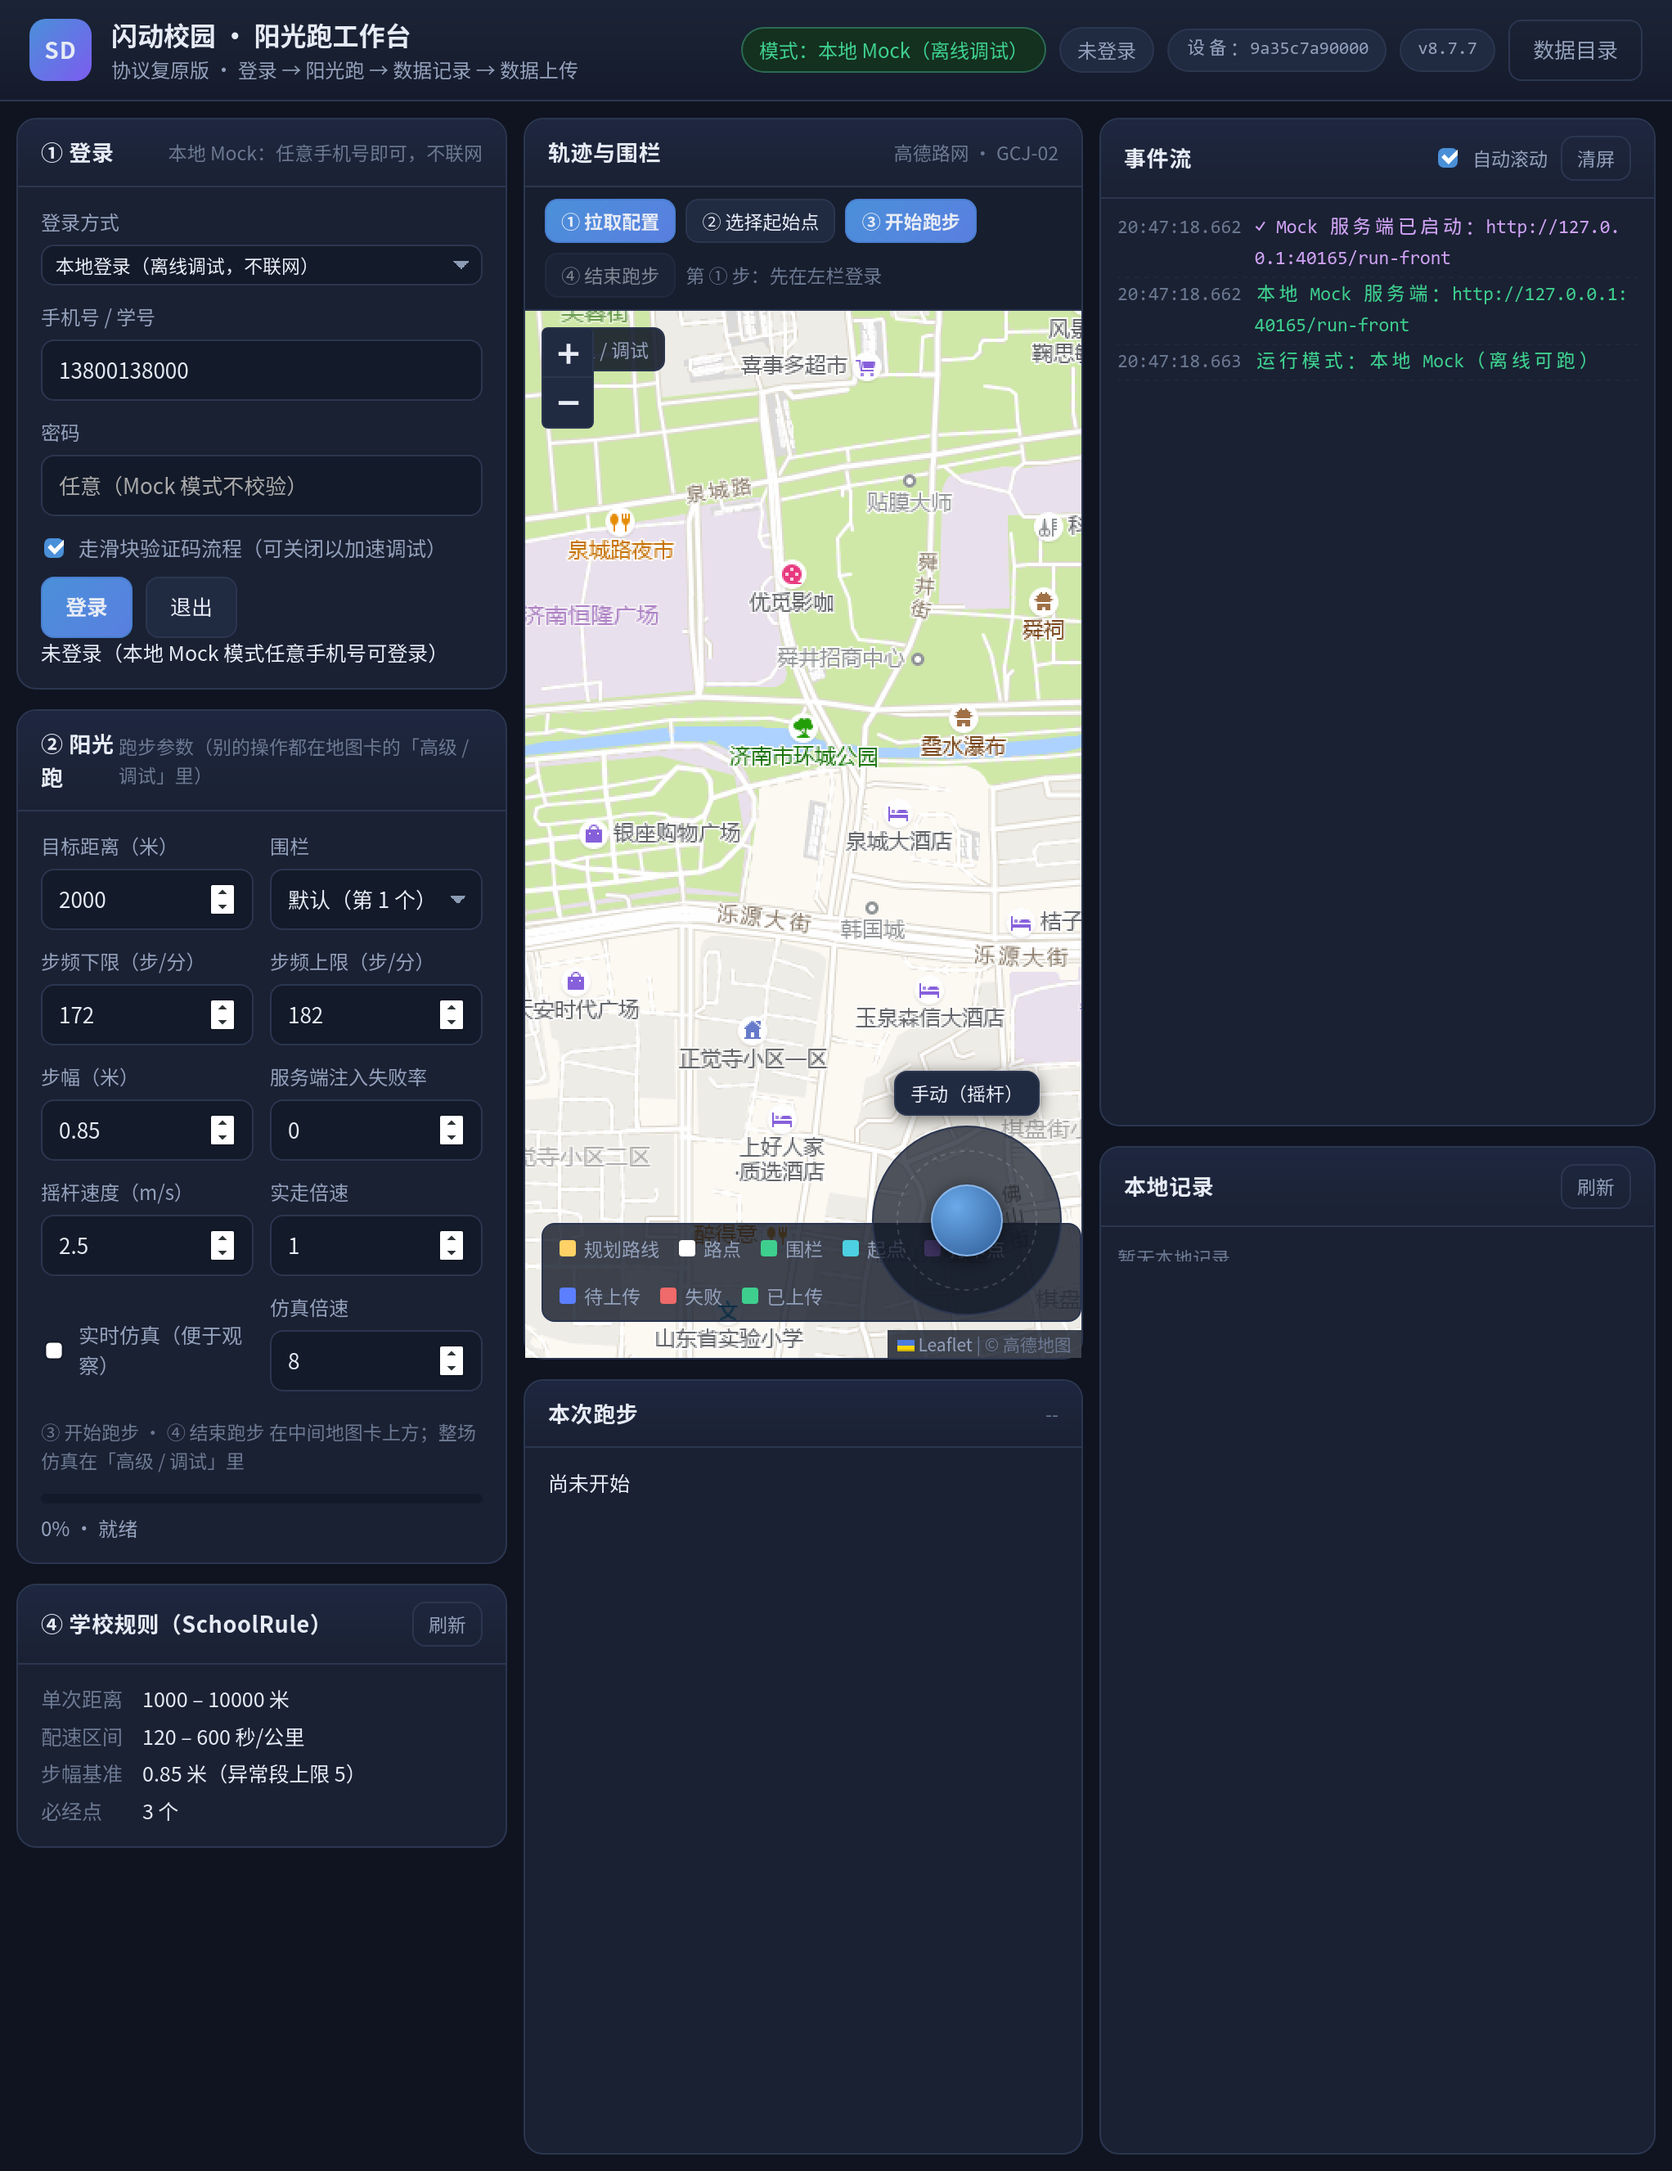
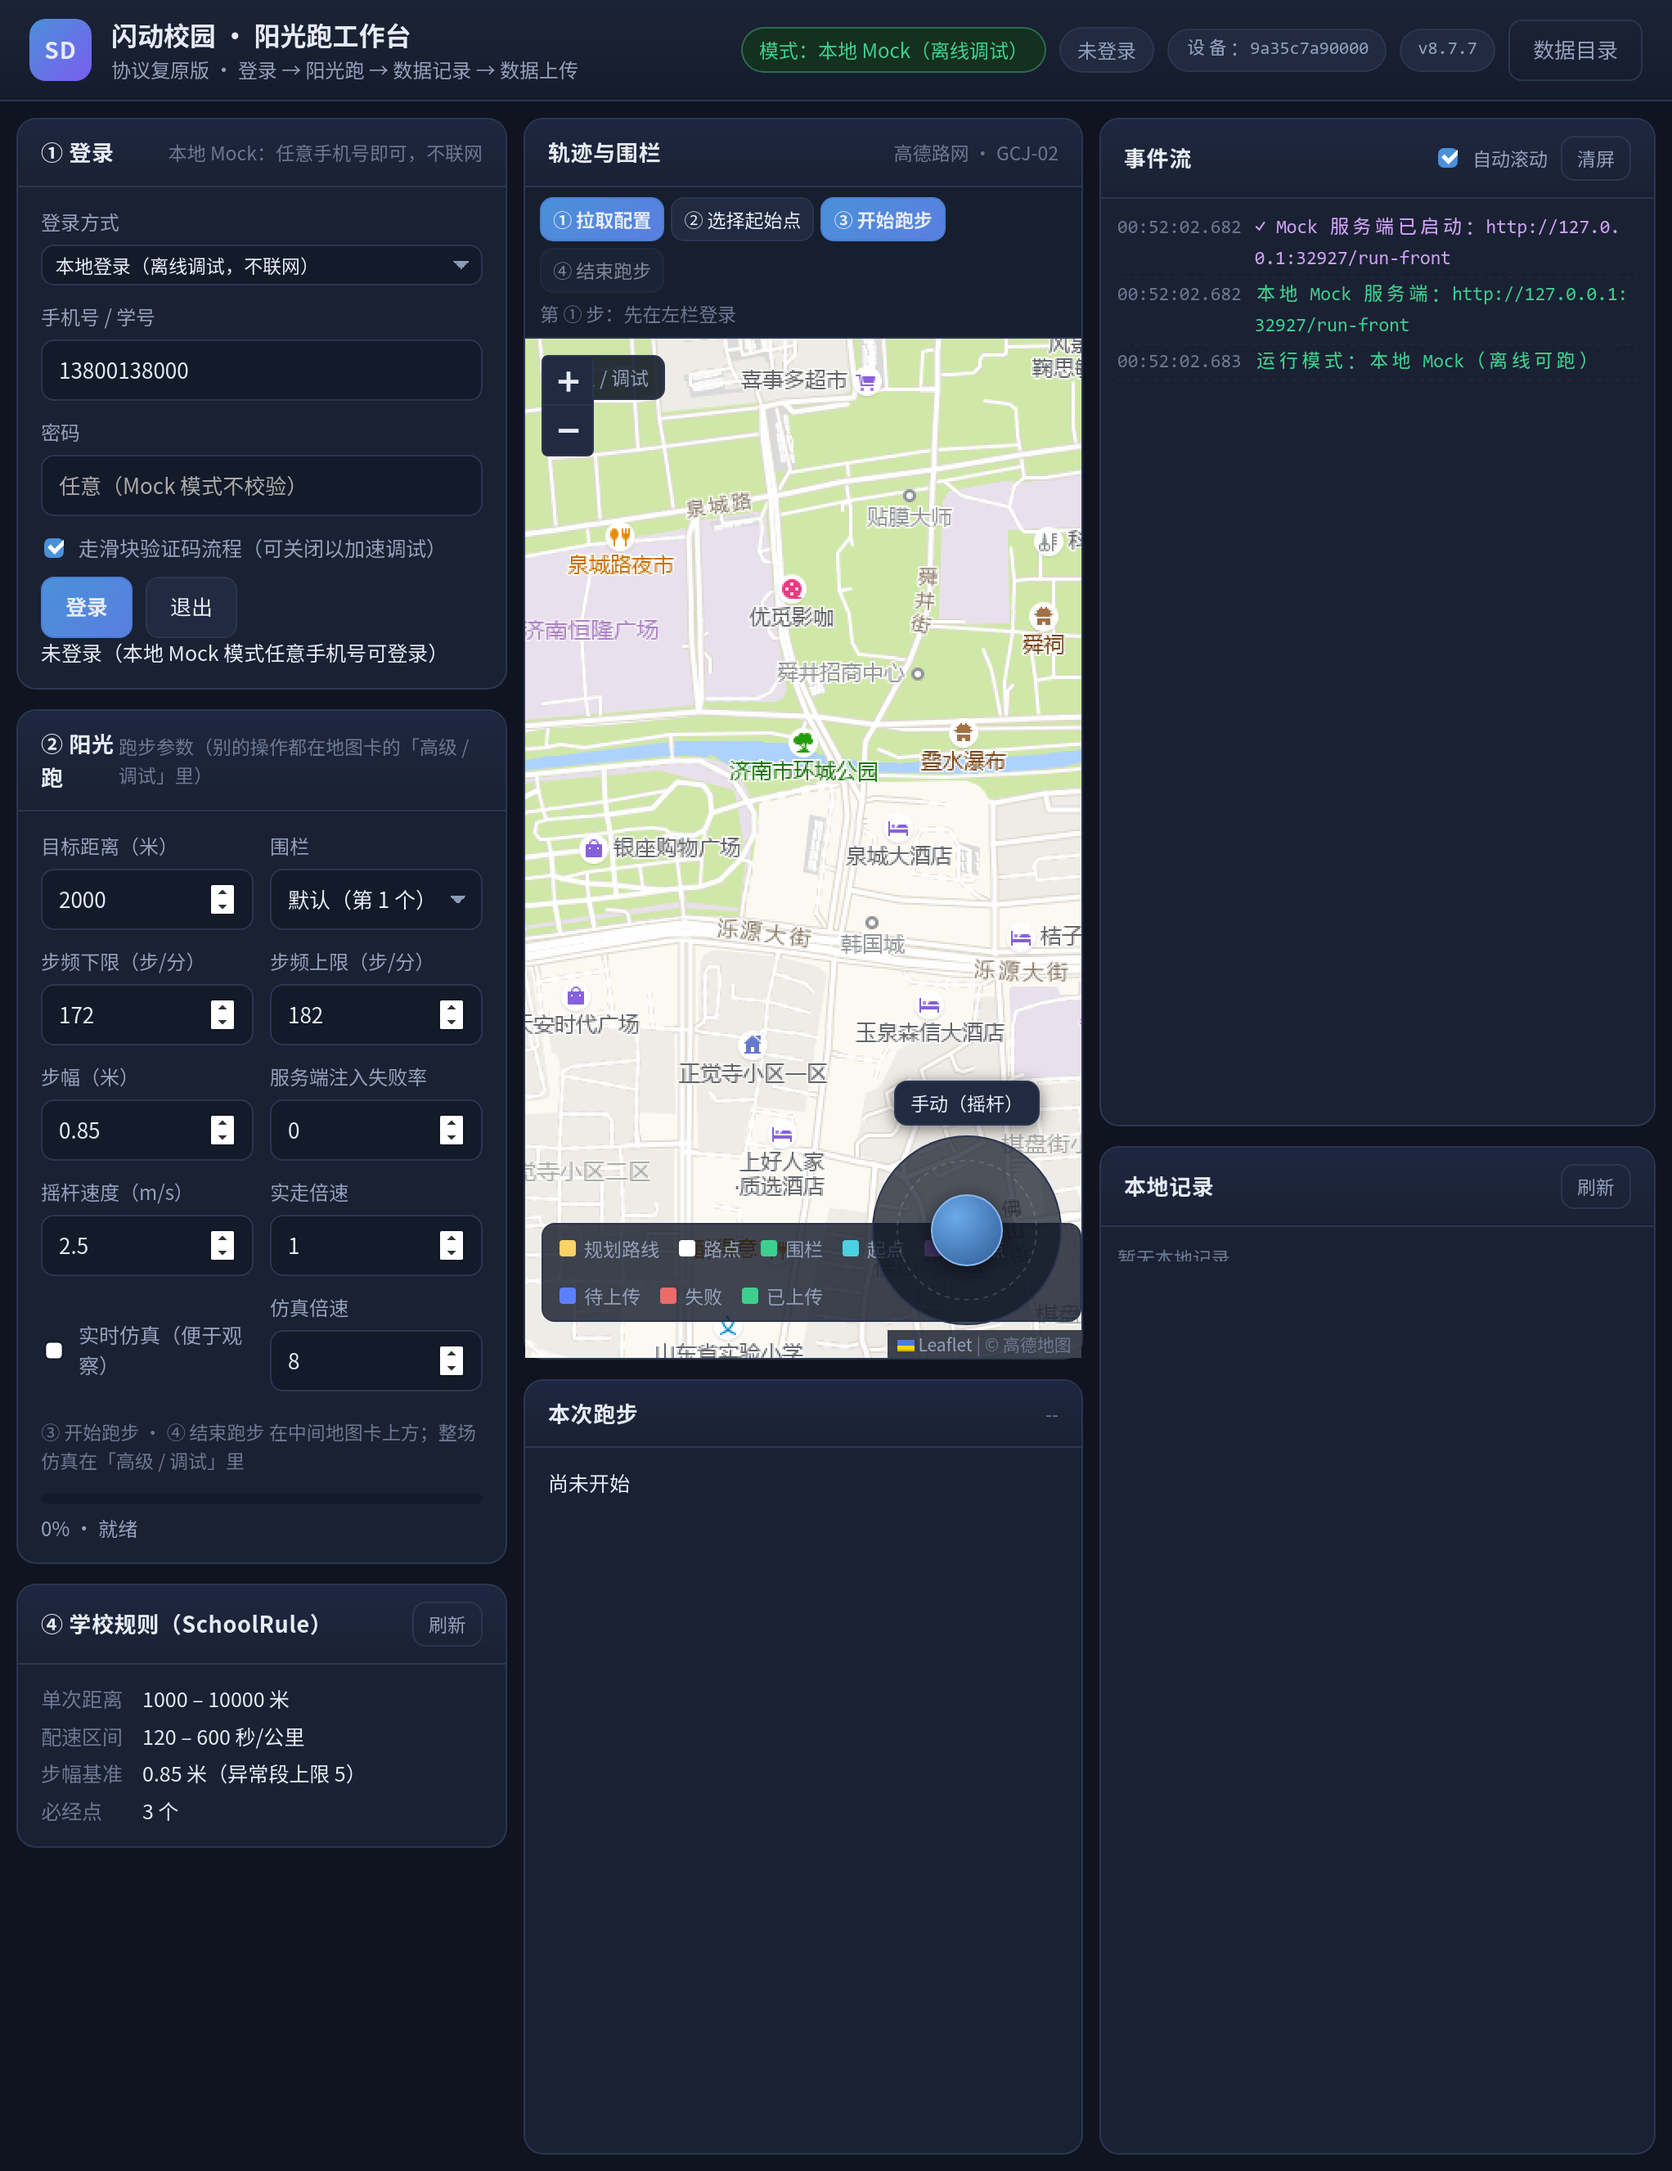
窗口变矮（非全屏）时不再裁掉右下角摇杆：地图卡最小高度 + 「本次跑步」卡让位（m01955）
- web/style.css：.col-mid 行高改 minmax(0,1.6fr)/minmax(0,1fr)，新增
  .col-mid .map-card{min-height:340px} 硬下界（卡头 40 + 工具行约 110 + 地图区 190），
  空间不够时由「本次跑步」卡让位（内部滚动）；.map-body 保底 190px；
  主流程提示行 flex:1 1 100% 独占一行（工具行高度不再随文案长短跳变）；
  按视口高度分档缩小摇杆（<=820/700/620px 三档）并同步降地图卡/地图区下界；
  中栏变窄时收紧主流程按钮，工具行尽量只占一行。
- scripts/gui_probe.py：新增永久回归检查「布局压到 420/380px 时右下角摇杆簇仍完整可见」
  与还原检查（真机窗口高度不受探针控制，用强制压矮中栏复现）。
- README.md：界面速览补「不用全屏也不会把摇杆裁掉」；桌面自检说明补该项。
- docs/screenshots：七张实拍随新布局重拍。

Changed region(s): [[0.3082, 0.0927, 0.6473, 0.6488], [0.3082, 0.5252, 0.4007, 0.5561]]

diff --git a/web/style.css b/web/style.css
@@ -70,12 +70,20 @@ html, body {
 }
 .col { display: flex; flex-direction: column; gap: 12px; min-height: 0; overflow: auto; }
 /* 中栏：地图卡片钉在页面上半部分（网格行高决定，不再被内容拉伸或居中），
-   下半部分给“本次跑步”。overflow:hidden 避免整列滚动把地图推出视野。 */
+   下半部分给“本次跑步”。overflow:hidden 避免整列滚动把地图推出视野。
+   地图卡有硬性最小高度（见 .col-mid .map-card，窗口矮时按视口降档），
+   保证右下角摇杆簇 + 主流程提示行永远装得下；空间不够时由“本次跑步”卡让位
+   （可压到 0 并内部滚动），而不是把地图区挤扁——地图区被挤扁后
+   .map-body{overflow:hidden} 会把整簇摇杆裁掉（2026-10-18 实测）。 */
 .col-mid {
   display: grid;
-  grid-template-rows: minmax(280px, 1.6fr) minmax(0, 1fr);
+  grid-template-rows: minmax(0, 1.6fr) minmax(0, 1fr);
   overflow: hidden;
 }
+/* 地图卡的高度下界 = 卡头 40 + 工具行（两行按钮 + 提示行，约 110）+ 地图区 190：
+   右下角摇杆簇（按钮 + 摇杆 + 底边距，最大约 175）永远放得下。
+   高窗口时它照样按 1.6fr 长大，不影响地图占满上半页。 */
+.col-mid .map-card { min-height: 340px; }
 /* 窗口变窄时收窄两侧栏，把宽度让给地图（地图是主视口） */
 @media (max-width: 1340px) {
   .layout { grid-template-columns: 300px minmax(300px, 1fr) 352px; }
@@ -101,7 +109,7 @@ html, body {
 }
 .card-head h2 { margin: 0; font-size: 13.5px; font-weight: 600; letter-spacing: .3px; }
 .card-body { padding: 12px 14px; overflow: auto; min-height: 0; }
-.card-body.map-body { padding: 0; position: relative; overflow: hidden; flex: 1 1 auto; min-height: 0; }
+.card-body.map-body { padding: 0; position: relative; overflow: hidden; flex: 1 1 auto; min-height: 190px; }
 .hint { font-size: 11.5px; color: var(--text-faint); }
 .head-tools { display: flex; align-items: center; gap: 8px; }
 
@@ -204,7 +212,7 @@ select option { background: #131a29; color: var(--text); }
   background: #171e2e; flex: 0 0 auto;
 }
 /* 主流程工具行（① 拉取配置 / ② 选择起始点 / ③ 开始跑步 / ④ 结束跑步）右侧的状态提示 */
-.flow-bar .hint { flex: 1 1 150px; min-width: 0; overflow: hidden; text-overflow: ellipsis; white-space: nowrap; }
+.flow-bar .hint { flex: 1 1 100%; min-width: 0; overflow: hidden; text-overflow: ellipsis; white-space: nowrap; }
 /* ── 高级 / 调试：默认折叠，主流程之外的控件都在这里 ── */
 .adv {
   position: absolute; left: 10px; top: 10px; z-index: 910;
@@ -225,7 +233,7 @@ select option { background: #131a29; color: var(--text); }
 .adv-row { display: flex; align-items: center; gap: 6px; flex-wrap: wrap; max-width: 470px; }
 /* ── 摇杆 + 「自动跑」：钉在地图右下角，任何时候都看得见（默认手动）── */
 .run-ctl {
-  position: absolute; right: 12px; bottom: 26px; z-index: 910;
+  position: absolute; right: 12px; bottom: 20px; z-index: 910;
   display: flex; flex-direction: column; align-items: center; gap: 6px;
 }
 .run-ctl .btn { box-shadow: 0 2px 10px #0008; }
@@ -248,6 +256,35 @@ select option { background: #131a29; color: var(--text); }
   transition: transform .04s linear;
 }
 .joy.active .joy-knob { background: radial-gradient(circle at 35% 30%, #7ee0b0, #1f7a55); }
+
+/* 窗口变矮（非全屏）时摇杆随视口高度缩一档：地图区优先，控件也要放得下 */
+@media (max-height: 820px) {
+  .joy { width: 96px; height: 96px; }
+  .joy .joy-knob { width: 38px; height: 38px; margin: -19px 0 0 -19px; }
+  .col-mid .map-card { min-height: 320px; }
+}
+@media (max-height: 700px) {
+  .joy { width: 84px; height: 84px; }
+  .joy .joy-knob { width: 34px; height: 34px; margin: -17px 0 0 -17px; }
+  .run-ctl { bottom: 16px; right: 10px; }
+  .run-ctl .btn { padding: 3px 8px; font-size: 11px; }
+  .card-body.map-body { min-height: 165px; }
+  .col-mid .map-card { min-height: 290px; }
+}
+@media (max-height: 620px) {
+  .joy { width: 72px; height: 72px; }
+  .joy .joy-knob { width: 30px; height: 30px; margin: -15px 0 0 -15px; }
+  .run-ctl { bottom: 12px; right: 8px; }
+  .flow-bar .hint { display: none; }
+  .card-body.map-body { min-height: 140px; }
+  .col-mid .map-card { min-height: 250px; }
+}
+/* 中栏变窄时主流程按钮收一收：工具行尽量只占一行，把高度让给地图 */
+@media (max-width: 1340px) {
+  .flow-bar { gap: 4px; padding: 6px 9px; }
+  .flow-bar .btn { padding: 4px 7px; font-size: 11.5px; }
+}
+}
 /* 实走中：地图外圈给个呼吸提示，一眼能看出在推进 */
 .map-card.walking { box-shadow: 0 0 0 1px #3ecf8e66, 0 0 22px #3ecf8e2e; }
 

diff --git a/scripts/gui_probe.py b/scripts/gui_probe.py
@@ -285,6 +285,35 @@ def main() -> int:
         check("地图卡上还有主流程提示行",
               len(str(js(window, "document.querySelector('#flow-info').textContent") or "")) > 0,
               str(js(window, "document.querySelector('#flow-info').textContent")))
+        # 2026-10-18 用户报「点击开始跑步后摇杆会消失，需要使软件全屏才能看到」：
+        # ③ 之后提示行文案变长把主流程工具行撑高一档，本就不高的窗口里地图区被压到
+        # 175px 以下，.map-body{overflow:hidden} 就把右下角整簇摇杆簇裁没了（纯布局，无 JS 控制）。
+        # 真机窗口高度不受探针控制，所以这里把中栏布局强行压矮来复现并断言
+        # （420/380 对应窗口高 ~500/460：地图卡仍该完整可见，「本次跑步」卡让位）。
+        for _h in (420, 380):
+            js(window, f"document.querySelector('.layout').style.height = '{_h}px'")
+            time.sleep(0.35)
+            raw = js(window, "JSON.stringify((function(){"
+                              "const b=document.querySelector('.map-body').getBoundingClientRect();"
+                              "const c=document.querySelector('.run-ctl').getBoundingClientRect();"
+                              "const l=document.querySelector('.layout').getBoundingClientRect();"
+                              "return {cTop:Math.round(c.top),cBot:Math.round(c.bottom),"
+                              "bTop:Math.round(b.top),bBot:Math.round(b.bottom),"
+                              "lBot:Math.round(l.bottom),vh:window.innerHeight};})())")
+            try:
+                fit = json.loads(raw) if isinstance(raw, str) else {}
+            except Exception:
+                fit = {}
+            check(f"布局压到 {_h}px（窗口变矮）时右下角摇杆簇仍完整可见",
+                  bool(fit) and fit.get("cTop", 0) >= fit.get("bTop", 0) + 2
+                  and fit.get("cBot", 0) <= fit.get("bBot", 0) - 2
+                  and fit.get("cBot", 0) <= min(fit.get("lBot", 0), fit.get("vh", 0)),
+                  f"摇杆簇 {fit.get('cTop')}~{fit.get('cBot')} vs 地图区 "
+                  f"{fit.get('bTop')}~{fit.get('bBot')}（中栏底 {fit.get('lBot')}，视口高 {fit.get('vh')}）")
+        js(window, "document.querySelector('.layout').style.height = ''")
+        time.sleep(0.35)
+        check("还原窗口高度后摇杆簇仍在地图右下角",
+              js(window, "!!document.querySelector('#joy').offsetParent") is True)
 
         print("\n[3] 拉取配置（围栏/规则/打卡点）")
         js(window, "document.querySelector('#btn-prepare').click()")

diff --git a/README.md b/README.md
@@ -187,6 +187,9 @@ python3 -m venv --system-site-packages .venv       # 继承系统包，省一次
   * **地图右下角常驻摇杆 + 「自动跑」**（不随「高级 / 调试」折叠，任何时候都看得见）：默认是**手动**——
     开跑后用摇杆（或方向键）自己控方向；点一下「自动跑」改为沿规划路线自动巡航（按钮点亮、状态行
     同步），再点一次交回摇杆；任何时候**推杆即接管**，自动巡航会立刻让位给手控。
+    摇杆是「随时都在」的：窗口变矮（非全屏）时它随视口自动缩一档（820 / 700 / 620 px 三档，
+    同时收窄右下角边距），地图区优先保证装得下，「本次跑步」卡这时让位（内部滚动）
+    ——**不用全屏也不会把摇杆裁掉**。
 * **中栏（高级 / 调试）**：其余控件全部收进地图卡上的「高级 / 调试」折叠区（默认折叠，需要时才展开，
   功能一个没少）：
   * **只规划路径 / 点选路点 / 清除起点 / 适应**：按打卡点做最近邻排序连成一条闭环，或点「点选路点」
@@ -253,7 +256,7 @@ export SDLAB_HOME=$PWD/.run          # 沙箱内 ~/.local/share 只读时必加
 
 # 桌面外壳自检（真的开窗口、点界面按钮：主流程只剩 4 个按钮、摇杆与「自动跑」常驻右下角、高级默认折叠、
 #   拉取配置后镜头飞到围栏、图上选起点、拉取配置后地图上没有打卡点、③ 开始跑步后才拿到服务端下发的打卡点、
-#   点「自动跑」才沿路线巡航、④ 结束跑步上传结算）
+#   点「自动跑」才沿路线巡航、窗口压矮时右下角摇杆簇不被裁掉、④ 结束跑步上传结算）
 .venv/bin/python scripts/gui_probe.py --distance 1200 --speed 8
 
 # 真实服务端连通性自检（不需要账号；会真的去 api.huachenjie.com 打请求，并实测滑块验证码）
